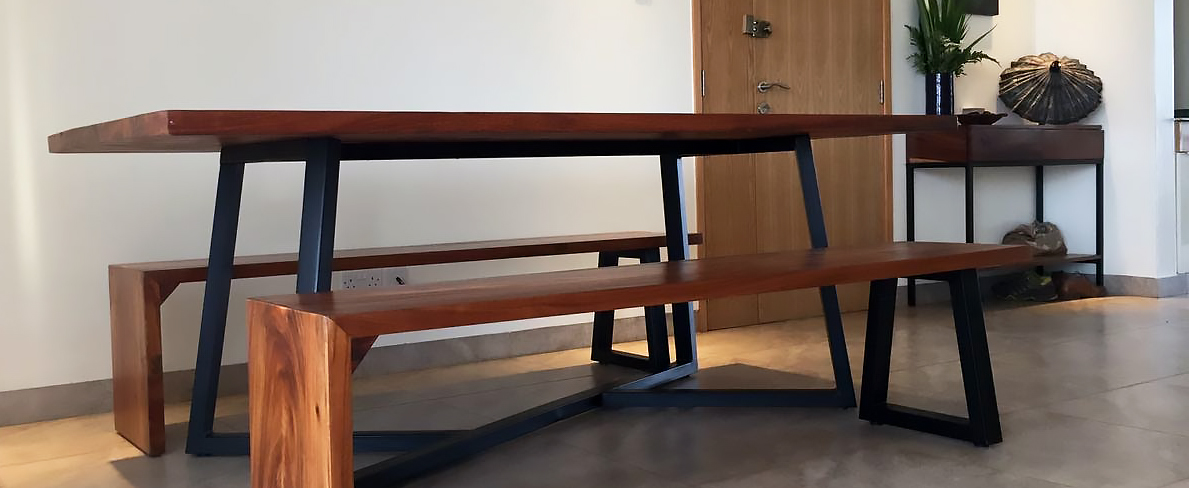
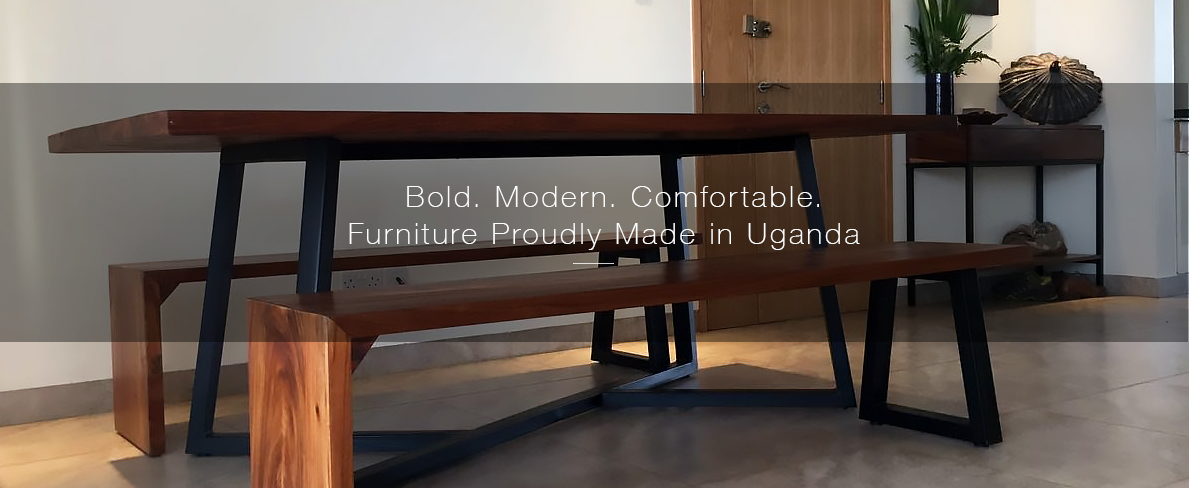
content revision one

diff --git a/M-Store/Header 2/index.html b/M-Store/Header 2/index.html
@@ -83,9 +83,6 @@
     <section class="hero-slider" data-loop="true" data-autoplay="true" data-interval="7000">
       <div class="inner">
         <div class="slide" style="background-image: url(assets/img/Muti-images/header_home_01.png">
-          <div class="container text-center padding-top-3x">
-            <h1 class="h1 from-bottom">Bold. Modern. Comfortable.<br>Furniture Proudly Handmade in Uganda</h1>
-          </div>
         </div><!-- .slide -->
         <div class="slide" style="background-image: url(assets/img/Muti-images/header_home_02.png">
         </div><!-- .slide -->
